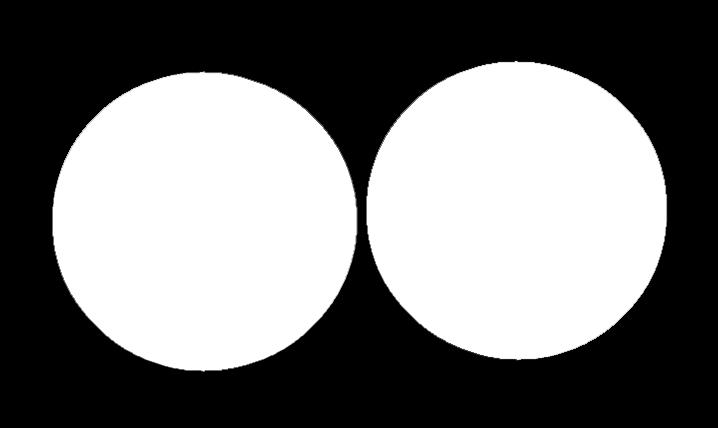
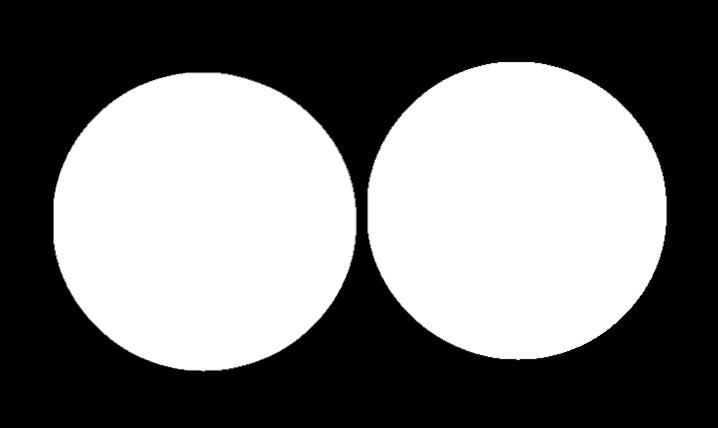
get the result

diff --git a/main.py b/main.py
@@ -39,25 +39,25 @@ image3 = cv2.bitwise_or(img, dilation)
 save_np_as_image(image3, '003.jpg')
 
 # 4. opening with gear_body
-gear_size = 277
+gear_size = 280
 gear_body = cv2.getStructuringElement(cv2.MORPH_ELLIPSE, (gear_size, gear_size))
 image4 = cv2.morphologyEx(image3, cv2.MORPH_OPEN, gear_body)
-save_np_as_image(image4, '004_gear_size=277.jpg')
+save_np_as_image(image4, '004_gear_size={}.jpg'.format(gear_size))
 
 
 # все что выше - ок, нужно менять то, что ниже
 # 5. dilate image4 with sampling_ring_spacer
-ring_spacer_size = 13
+ring_spacer_size = 11
 sampling_ring_spacer = cv2.getStructuringElement(cv2.MORPH_ELLIPSE, (ring_spacer_size, ring_spacer_size))
 image5 = cv2.dilate(image4, sampling_ring_spacer)
-save_np_as_image(image5, '005_ring_spacer_size=13.jpg')
+save_np_as_image(image5, '005_ring_spacer_size={}.jpg'.format(ring_spacer_size))
 
 # 6.
 
-ring_width_size = 21;
+ring_width_size = 23;
 sampling_ring_width= cv2.getStructuringElement(cv2.MORPH_ELLIPSE, (ring_width_size, ring_width_size))
 image6 = cv2.dilate(image5, sampling_ring_width)
-save_np_as_image(image6, '006_ring_spacer_width=21.jpg')
+save_np_as_image(image6, '006_ring_spacer_width={}.jpg'.format(ring_width_size))
 
 # 7.
 image7 = cv2.bitwise_xor(image5, image6)
@@ -67,6 +67,21 @@ save_np_as_image(image7, '007.jpg')
 image8 = cv2.bitwise_and(img, image7)
 save_np_as_image(image8, '008_original_XOR_007.jpg')
 
+# 9. dilate with tip_spacing
+tip_spacing_size = 23
+tip_spacing = cv2.getStructuringElement(cv2.MORPH_ELLIPSE, (tip_spacing_size, tip_spacing_size))
+image9 = cv2.dilate(image8, tip_spacing)
+save_np_as_image(image9, '009_tip_spacing_size={}.jpg'.format(tip_spacing_size))
+
+# 10.
+image10 = cv2.subtract(image7, image9)
+save_np_as_image(image10, '010.jpg')
+defect_cue_size = 35
+defect_cue = cv2.getStructuringElement(cv2.MORPH_ELLIPSE, (defect_cue_size, defect_cue_size))
+image10 = cv2.dilate(image10, defect_cue)
+result = cv2.bitwise_or(image10 ,image9)
+save_np_as_image(result, '011_result_body={}_spacer={}_width={}_tip={}_cue={}.jpg'.format(
+                gear_size, ring_spacer_size, ring_width_size, tip_spacing_size, defect_cue_size))
 
 
 
